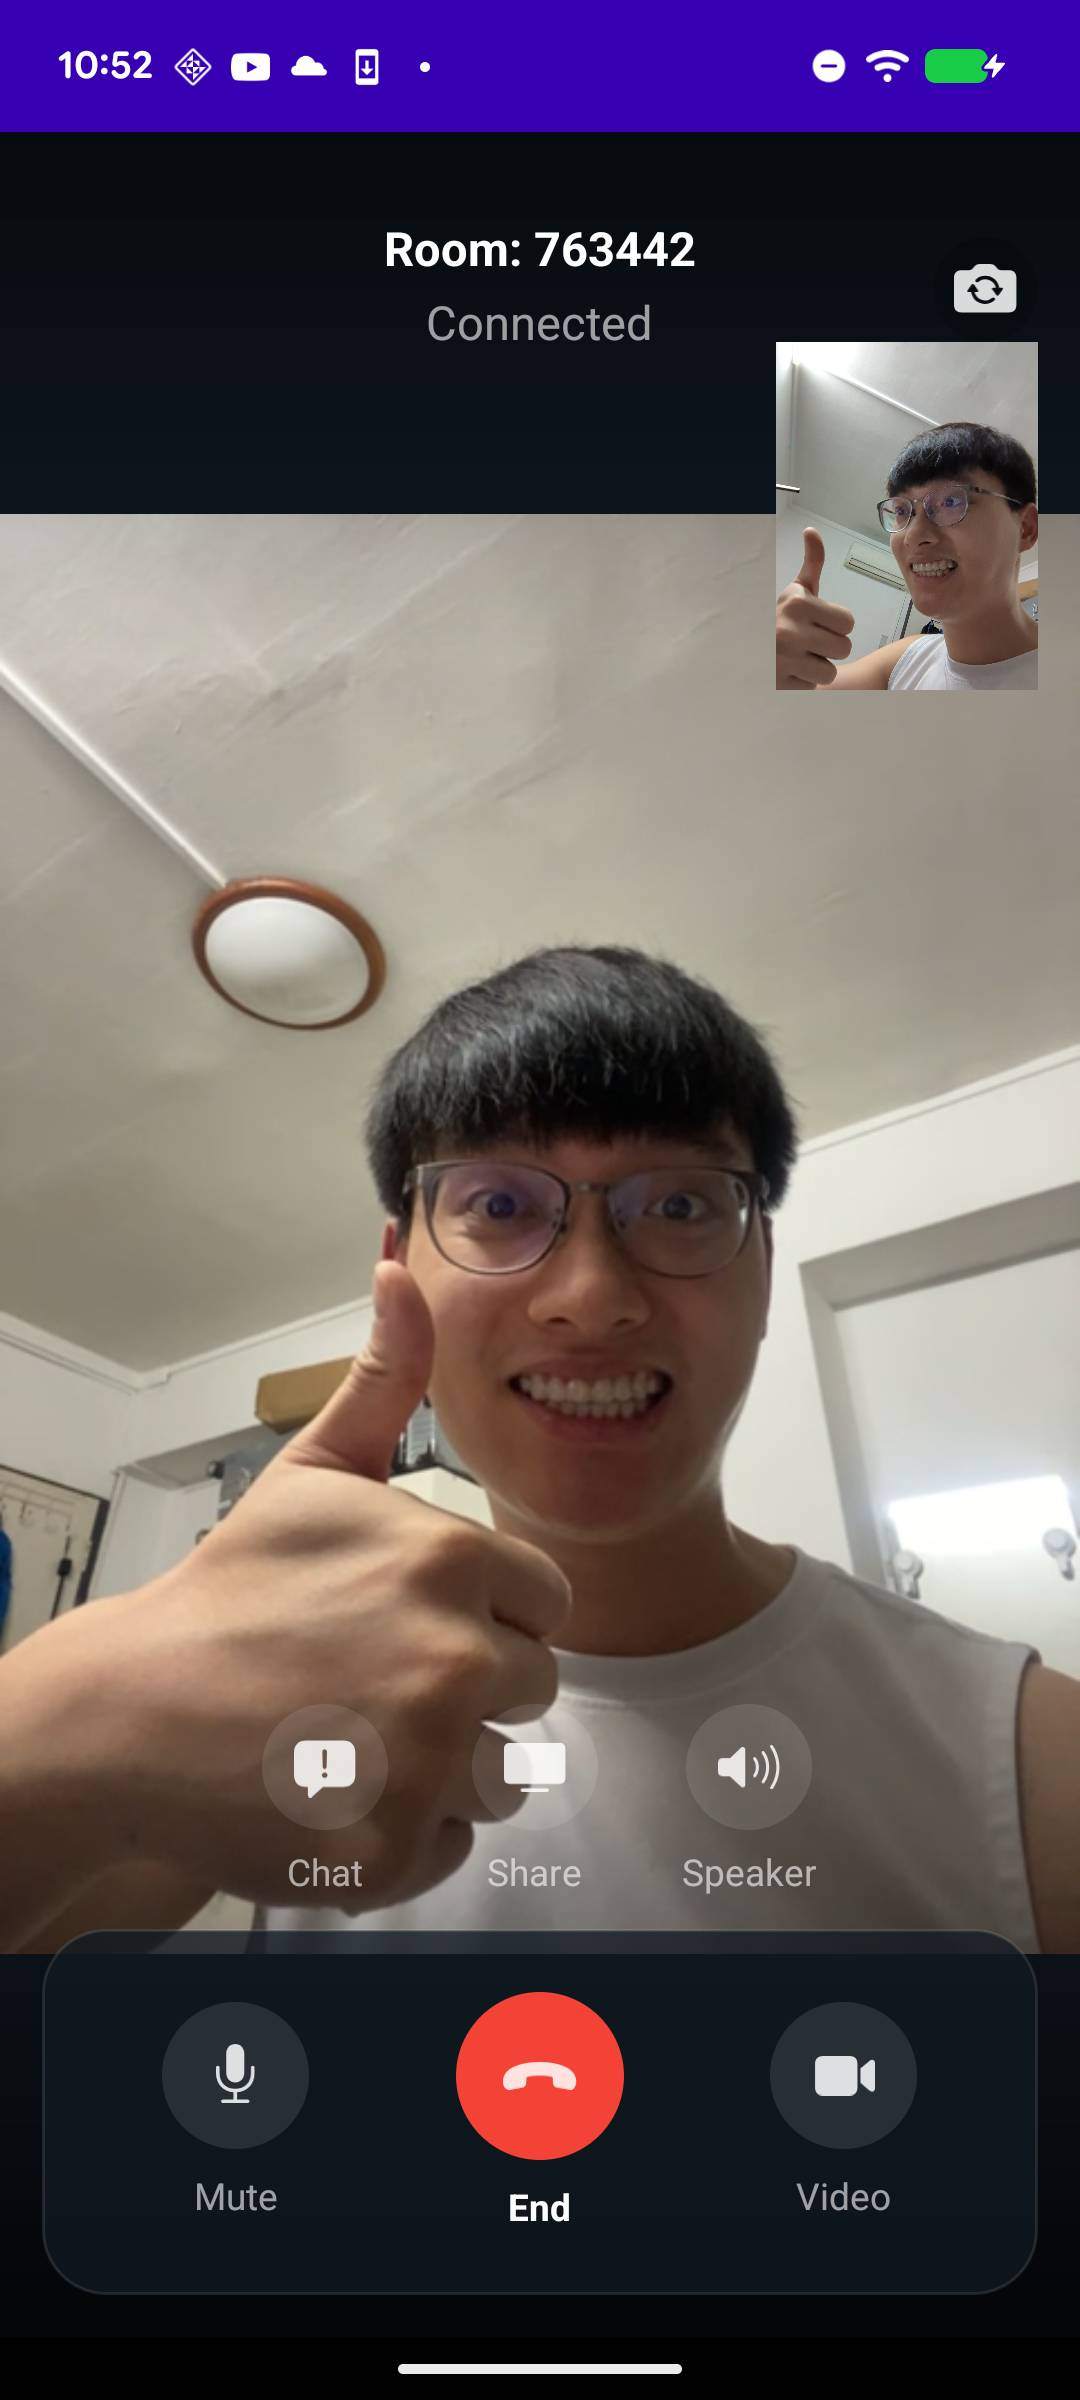
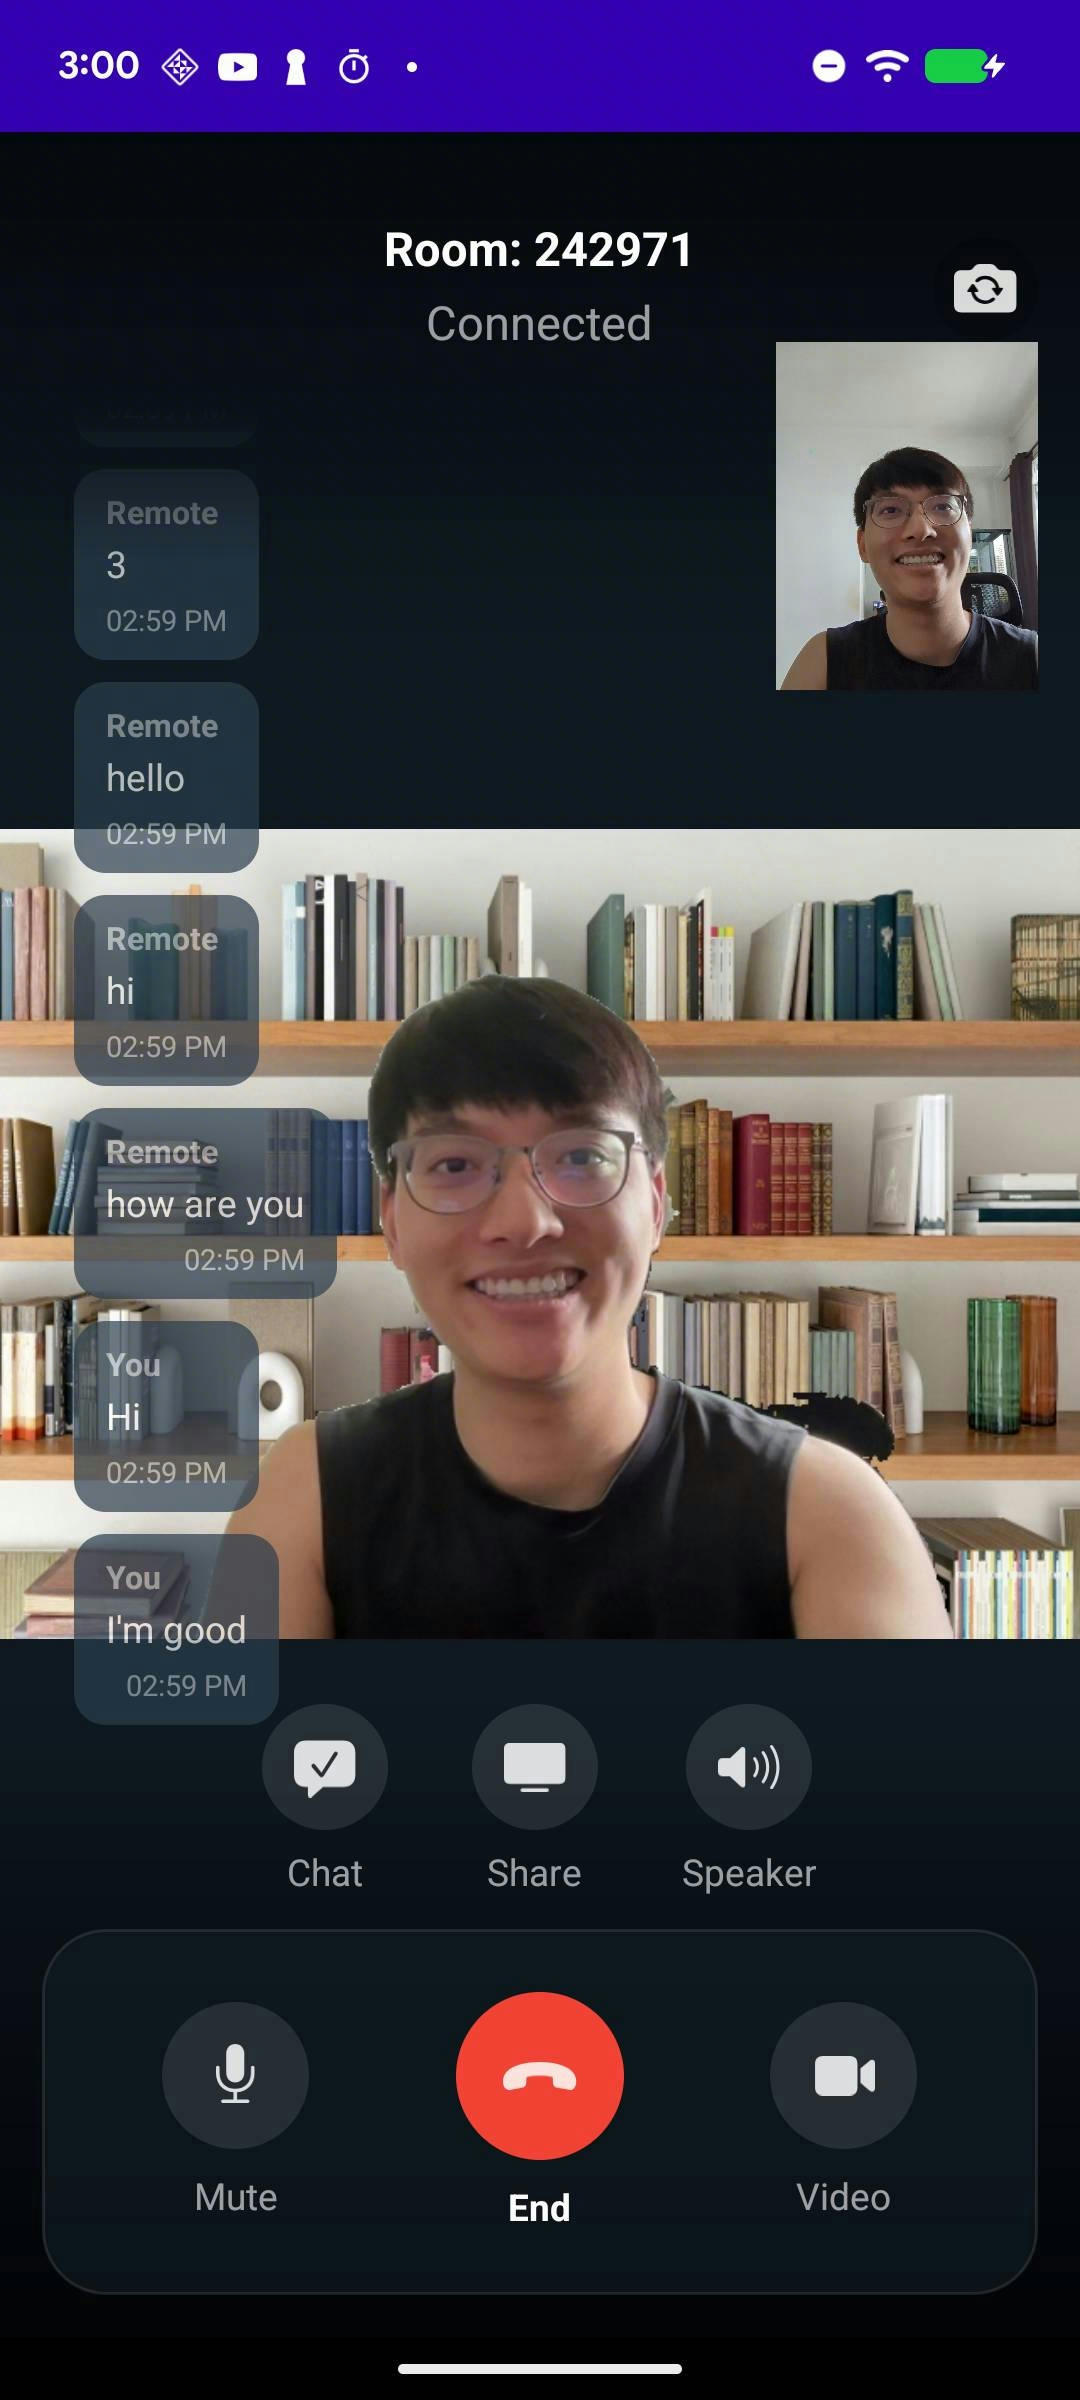
fix: android overlay height
docs: update demo screenshots

diff --git a/android/app/src/main/java/com/example/myapplication/CallActivity.kt b/android/app/src/main/java/com/example/myapplication/CallActivity.kt
@@ -547,18 +547,14 @@ class CallActivity : AppCompatActivity(), RtcListener {
 
                 val params = messagesOverlay.layoutParams as FrameLayout.LayoutParams
 
-                // Calculate available height between top_bar and bottom_controls
-                val availableHeight = screenHeight - bottomControls.top - topBar.bottom - 300 // -300 to make it clearer, not too near bottom controls
-
                 // Convert 280dp to pixels for width (enough for message bubbles)
                 val widthInDp = 280
                 val widthInPx = (widthInDp * resources.displayMetrics.density).toInt()
 
                 // Set position and size
                 params.topMargin = topBar.bottom
-                params.height = availableHeight
+                params.height = bottomControls.top - 200
                 params.width = widthInPx
-                params.gravity = android.view.Gravity.START or android.view.Gravity.TOP
 
                 messagesOverlay.layoutParams = params
             }
